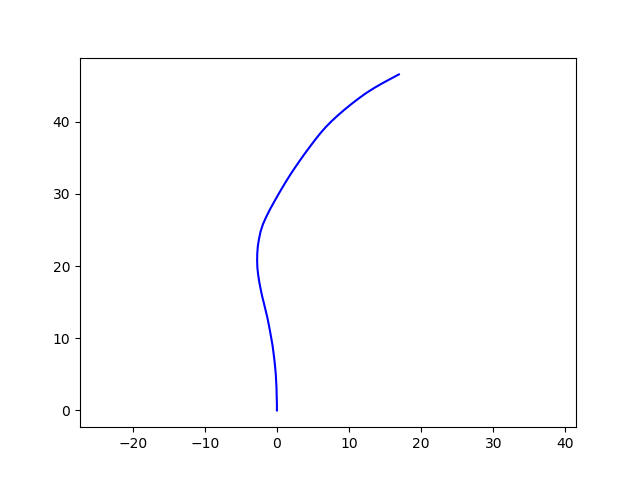
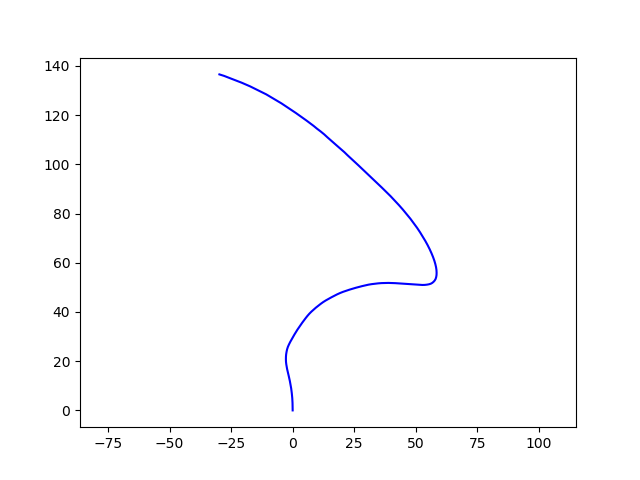
added plot_traj for two trajectories

diff --git a/kpT0.py b/kpT0.py
@@ -17,7 +17,7 @@ def homSE3tose3(R,t):
     p = p.inv().log()
     return p
 
-def plot_traj(poses,outfn):
+def T2traj(poses):
     p = np.zeros((4,1))
     p[-1,0] = 1.0
     pts = [p]
@@ -28,12 +28,18 @@ def plot_traj(poses,outfn):
         pts.append(p)
     pts = np.array(pts)
     pts = pts[:,:,0]
+    return pts
+
+def plot_traj(poses,poses_,outfn):
+    pts = T2traj(poses)
+    pts_ = T2traj(poses_)
     
     fig = plt.figure()
     plt.axis('equal')
     
     ax = fig.add_subplot(111)
-    ax.plot(pts[:,0],pts[:,2],'b-')
+    ax.plot(pts[:,0],pts[:,2],'g-')
+    ax.plot(pts_[:,0],pts_[:,2],'b-')
     
     plt.savefig(outfn)
     plt.close(fig)
@@ -118,9 +124,8 @@ if __name__ == '__main__':
         T_[:3] /= np.linalg.norm(T_[:3])
         poses_.append(T_)
         
-        #i += 1
-        #if i == 50:
-        #    break
-    plot_traj(poses,'traj.png')
-    plot_traj(poses_,'traj_.png')
+        i += 1
+        if i == 10:
+            break
+    plot_traj(poses,poses_,'trajs.png')
 
